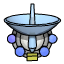
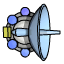
All turrets shooting

diff --git a/src/js/Game.js b/src/js/Game.js
@@ -1,13 +1,39 @@
-var map, road, trees, turrets, test, bmd, marker, currentTile, enemies, waveCreator, enemyWave, turretPosition, mouseDownCount;
+var map, road, trees, turrets, test, bmd, marker, currentTile, enemies, waveCreator, enemyWave, turretPosition, mouseDownCount, bullets;
+var fireRate0 = 300;
+var nextFire0 = 0;
+var fireRate1 = 300;
+var nextFire1 = 0;
+
+var fireRate2 = 300;
+var nextFire2 = 0;
+var fireRate3 = 300;
+var nextFire3 = 0;
+var fireRate4 = 300;
+var nextFire4 = 0;
+var fireRate5 = 300;
+var nextFire5 = 0;
+var fireRate6 = 300;
+var nextFire6 = 0;
+var fireRate7 = 300;
+var nextFire7 = 0;
+var fireRate8 = 300;
+var nextFire8 = 0;
+var fireRate9 = 300;
+var nextFire9 = 0;
+
+
 
 PhaserGame.Game = function (game) {
+  // this.weapons = [];
 }
 
 PhaserGame.Game.prototype = {
 
   create: function () {
+    ///////////////////////////////////////
+    //      Map and Layers Creation      //
+    ///////////////////////////////////////
 
-    //***** Map and Layers Creation *****//
     this.map = this.add.tilemap('map');
 
       //First param :name of tileset from tiled; second: game.load.image
@@ -17,14 +43,17 @@ PhaserGame.Game.prototype = {
     this.road = this.map.createLayer('Road');
     this.grass = this.map.createLayer('Grass');
     this.trees = this.map.createLayer('Tree bases');
-    this.turrets = this.map.createLayer('Turrets');
+    // this.turrets = this.map.createLayer('Turrets');
 
-    //***** Enemy sprite and travel path information *****//
+    ////////////////////////////////////////////////////////
+    //      Enemy sprite and travel path information      //
+    ////////////////////////////////////////////////////////
+
     this.enemies = game.add.group();
     this.enemies.enableBody = true;
-    this.enemies.enableBodyType = Phaser.Physics.ARCADE;
+    this.enemies.physicsBodyType = Phaser.Physics.ARCADE;
 
-    this.enemyWave = ['tank01', 'tank01', 'tank01', 'tank04', 'tank04', 'tank04', 'tank07', 'tank07', 'tank07'];
+    this.enemyWave = ['tank1', 'tank2', 'tank3', 'tank4', 'tank5', 'tank6', 'tank7', 'tank8', 'tank9'];
 
 
     for (var i = 0; i < this.enemyWave.length; i++) {
@@ -32,9 +61,25 @@ PhaserGame.Game.prototype = {
       this.enemyWave[i].anchor.set(0.5);
     }
 
+    ///////////////////////
+    //      Bullets      //
+    ///////////////////////
+
+    this.bullets = game.add.group();
+
+    this.bullets.enableBody = true;
+    this.bullets.physicsBodyType = Phaser.Physics.ARCADE;
+    this.bullets.createMultiple(500, 'bullet');
+    this.bullets.setAll('checkWorldBounds', true);
+    this.bullets.setAll('outOfBoundsKill', true);
+
+    /////////////////////
+    //     Turrets     //
+    /////////////////////
+
     this.guns = game.add.group();
 
-    this.turretPosition = ['turret1', 'turret1', 'turret1', 'turret1', 'turret1', 'turret1', 'turret1', 'turret1', 'turret1', 'turret1',]
+    this.turretPosition = ['turret1', 'turret2', 'turret3', 'turret4', 'turret5', 'turret6', 'turret7', 'turret8', 'turret7', 'turret6',]
 
     this.turretSpots = {
       'x' : [352, 800, 256, 448, 96, 320, 128, 354, 832, 864],
@@ -46,25 +91,22 @@ PhaserGame.Game.prototype = {
       this.turretPosition[i].anchor.set(0.5);
     }
 
+    ///////////////////////////////////////////////
+    //      Add Bit Mad Data and Last Layer      //
+    ///////////////////////////////////////////////
+
     this.bmd = this.add.bitmapData(game.width, game.height);
     this.bmd.addToWorld();
     this.plot();
 
     this.bridges = this.map.createLayer('Tree Tops and Bridges');
 
-    //Mouse marker
-    marker = game.add.graphics();
-    marker.lineStyle(2, 0x000000, 1);
-    marker.drawRect(-32, -32, 64, 64);
-    mouseDownCount = 0;
-
-    // currentTile = this.map.getTile(30, 0, 'Turrets');
-
   },
 
   plot: function () {
-
-    //***** Path plot info for the enemy sprites *****//
+    ////////////////////////////////////////////////////
+    //      Path plot info for the enemy sprites      //
+    ////////////////////////////////////////////////////
 
     this.path = [];
     var ix = 0;
@@ -102,8 +144,10 @@ PhaserGame.Game.prototype = {
   },
 
   update: function (){
+    //////////////////////////////////////////////
+    //     Places enemy tanks into the wave     //
+    //////////////////////////////////////////////
 
-    //This places enemy tanks into the wave
     for (var i = 0; i < this.enemyWave.length; i++) {
       var offset = this.path[this.pi + ((this.enemyWave.length - 1) * 40 - i * 40)];
       this.enemyWave[i].x = offset.x;
@@ -112,43 +156,121 @@ PhaserGame.Game.prototype = {
     };
 
     this.pi++;
-
     if (this.pi >= this.path.length) {
       this.pi = 0;
     }
-
-    //Marks the current location of the mouse
-    marker.x = this.turrets.getTileX(game.input.activePointer.worldX) * 32;
-    marker.y = this.turrets.getTileY(game.input.activePointer.worldY) * 32;
-
-
-    // if (game.input.mousePointer.isDown) {
-    //   // var 'turret' + mouseDownCount;
-    //   // this.('turret' + mouseDownCount) = this.guns.create(marker.x, marker.y, 'turret1');
-    //   // this.('turret' + mouseDownCount).anchor.set(0.5);
-    //   // this.('turret' + mouseDownCount) = game.physics.arcade.angleBetween(this.('turret' + mouseDownCount), this.enemyWave[1]);
-    //   // this.mouseDownCount++;
-    //   this.turretPosition = this.guns.create(marker.x, marker.y, 'turret1');
-    //   this.turretPosition.anchor.set(0.5);
-    //   // this.turretPosition.rotation = game.physics.arcade.angleBetween(this.turretPosition, this.enemyWave[1]);
-
-    // }
-
-    // // if (game.input.mousePointer.isDown) {
-    // //   if (game.input.keyboard.isDown(Phaser.Keyboard.SHIFT)) {
-    // //     currentTile = this.map.getTile(this.turrets.getTileX(marker.x), this.turrets.getTileY(marker.y), 'Turrets');
-    // //   } else {
-    // //     if (this.map.getTile(this.turrets.getTileX(marker.x), this.turrets.getTileY(marker.y)) !== currentTile) {
-    // //       this.map.putTile(currentTile, this.turrets.getTileX(marker.x), this.turrets.getTileY(marker.y), 'Turrets');
-    // //     }
-    // //   }
-    // // }
     for(var i = 0; i < this.turretPosition.length; i++) {
       this.turretPosition[i].rotation = game.physics.arcade.angleBetween(this.turretPosition[i], this.enemyWave[1]);
     }
 
-  }
+    this.fire0();
+    this.fire1();
+    this.fire2();
+    this.fire3();
+    this.fire4();
+    this.fire5();
+    this.fire6();
+    this.fire7();
+    this.fire8();
+    this.fire9();
 
+  },
+
+  fire0: function () {
+    if (game.time.now > nextFire0 && this.bullets.countDead() > 0) {
+      nextFire0 = game.time.now + fireRate0;
+      var bullet = this.bullets.getFirstDead();
+      bullet.reset(this.turretPosition[0].x + 16, this.turretPosition[0].y + 16);
+      bullet.rotation = game.physics.arcade.angleBetween(this.turretPosition[0], this.enemyWave[1])
+      game.physics.arcade.moveToObject(bullet, this.enemyWave[1], 300);
+    }
+  },
+  fire1: function () {
+    if (game.time.now > nextFire1 && this.bullets.countDead() > 0) {
+      nextFire1 = game.time.now + fireRate1;
+      var bullet = this.bullets.getFirstDead();
+      bullet.reset(this.turretPosition[1].x + 16, this.turretPosition[1].y + 16);
+      bullet.rotation = game.physics.arcade.angleBetween(this.turretPosition[1], this.enemyWave[0])
+      game.physics.arcade.moveToObject(bullet, this.enemyWave[0], 300);
+    }
+  },
+  fire2: function () {
+    if (game.time.now > nextFire2 && this.bullets.countDead() > 0) {
+      nextFire2 = game.time.now + fireRate2;
+      var bullet = this.bullets.getFirstDead();
+      bullet.reset(this.turretPosition[2].x + 16, this.turretPosition[2].y + 16);
+      bullet.rotation = game.physics.arcade.angleBetween(this.turretPosition[2], this.enemyWave[0])
+      game.physics.arcade.moveToObject(bullet, this.enemyWave[0], 300);
+    }
+  },
+  fire3: function () {
+    if (game.time.now > nextFire3 && this.bullets.countDead() > 0) {
+      nextFire3 = game.time.now + fireRate3;
+      var bullet = this.bullets.getFirstDead();
+      bullet.reset(this.turretPosition[3].x + 16, this.turretPosition[3].y + 16);
+      bullet.rotation = game.physics.arcade.angleBetween(this.turretPosition[3], this.enemyWave[0])
+      game.physics.arcade.moveToObject(bullet, this.enemyWave[0], 300);
+    }
+  },
+  fire4: function () {
+    if (game.time.now > nextFire4 && this.bullets.countDead() > 0) {
+      nextFire4 = game.time.now + fireRate4;
+      var bullet = this.bullets.getFirstDead();
+      bullet.reset(this.turretPosition[4].x + 16, this.turretPosition[4].y + 16);
+      bullet.rotation = game.physics.arcade.angleBetween(this.turretPosition[4], this.enemyWave[0])
+      game.physics.arcade.moveToObject(bullet, this.enemyWave[0], 300);
+    }
+  },
+  fire5: function () {
+    if (game.time.now > nextFire5 && this.bullets.countDead() > 0) {
+      nextFire5 = game.time.now + fireRate5;
+      var bullet = this.bullets.getFirstDead();
+      bullet.reset(this.turretPosition[5].x + 16, this.turretPosition[5].y + 16);
+      bullet.rotation = game.physics.arcade.angleBetween(this.turretPosition[5], this.enemyWave[0])
+      game.physics.arcade.moveToObject(bullet, this.enemyWave[0], 300);
+    }
+  },
+  fire6: function () {
+    if (game.time.now > nextFire6 && this.bullets.countDead() > 0) {
+      nextFire6 = game.time.now + fireRate6;
+      var bullet = this.bullets.getFirstDead();
+      bullet.reset(this.turretPosition[6].x + 16, this.turretPosition[6].y + 16);
+      bullet.rotation = game.physics.arcade.angleBetween(this.turretPosition[6], this.enemyWave[0])
+      game.physics.arcade.moveToObject(bullet, this.enemyWave[0], 300);
+    }
+  },
+  fire7: function () {
+    if (game.time.now > nextFire7 && this.bullets.countDead() > 0) {
+      nextFire7 = game.time.now + fireRate7;
+      var bullet = this.bullets.getFirstDead();
+      bullet.reset(this.turretPosition[7].x + 16, this.turretPosition[7].y + 16);
+      bullet.rotation = game.physics.arcade.angleBetween(this.turretPosition[7], this.enemyWave[0])
+      game.physics.arcade.moveToObject(bullet, this.enemyWave[0], 300);
+    }
+  },
+  fire8: function () {
+    if (game.time.now > nextFire8 && this.bullets.countDead() > 0) {
+      nextFire8 = game.time.now + fireRate8;
+      var bullet = this.bullets.getFirstDead();
+      bullet.reset(this.turretPosition[8].x + 16, this.turretPosition[8].y + 16);
+      bullet.rotation = game.physics.arcade.angleBetween(this.turretPosition[8], this.enemyWave[0])
+      game.physics.arcade.moveToObject(bullet, this.enemyWave[0], 300);
+    }
+  },
+  fire9: function () {
+    if (game.time.now > nextFire9 && this.bullets.countDead() > 0) {
+      nextFire9 = game.time.now + fireRate9;
+      var bullet = this.bullets.getFirstDead();
+      bullet.reset(this.turretPosition[9].x + 16, this.turretPosition[9].y + 16);
+      bullet.rotation = game.physics.arcade.angleBetween(this.turretPosition[9], this.enemyWave[0])
+      game.physics.arcade.moveToObject(bullet, this.enemyWave[0], 300);
+    }
+  },
+  render: function () {
+
+    // game.debug.text('Active Bullets: ' + this.bullets.countLiving() + ' / ' + this.bullets.countDead() + ' / ' + this.bullets.total, 32, 32);
+    // game.debug.text(game.time.now + ' / ' + nextFire, 32, 64)
+  }
 
 };
 

diff --git a/src/js/Preloader.js b/src/js/Preloader.js
@@ -2,6 +2,8 @@ PhaserGame.Preloader = function (game) {
 
 };
 
+
+
 PhaserGame.Preloader.prototype = {
   preload: function () {
     //Load the elements from the Boot.js for the splash screen
@@ -13,40 +15,16 @@ PhaserGame.Preloader.prototype = {
     this.load.tilemap('map', 'assets/river-defense.json', null, Phaser.Tilemap.TILED_JSON);
     this.load.image('terrain', 'assets/terrain_atlas.png');
     this.load.image('turrets', 'assets/turrets32.png');
-    this.load.image('tank01', 'assets/enemy01.png');
-    this.load.image('tank02', 'assets/enemy02.png');
-    this.load.image('tank03', 'assets/enemy03.png');
-    this.load.image('tank04', 'assets/enemy04.png');
-    this.load.image('tank05', 'assets/enemy05.png');
-    this.load.image('tank06', 'assets/enemy06.png');
-    this.load.image('tank07', 'assets/enemy07.png');
-    this.load.image('tank08', 'assets/enemy08.png');
-    this.load.image('tank09', 'assets/enemy09.png');
-    this.load.image('tank10', 'assets/enemy10.png');
-    this.load.image('tank11', 'assets/enemy11.png');
-    this.load.image('tank12', 'assets/enemy12.png');
-    this.load.image('tank13', 'assets/enemy13.png');
-    this.load.image('tank14', 'assets/enemy14.png');
-    this.load.image('tank15', 'assets/enemy15.png');
-    this.load.image('tank16', 'assets/enemy16.png');
-    this.load.image('tank17', 'assets/enemy17.png');
-    this.load.image('tank18', 'assets/enemy18.png');
-    this.load.image('tank19', 'assets/enemy19.png');
-    this.load.image('tank20', 'assets/enemy20.png');
-    this.load.image('tank21', 'assets/enemy21.png');
-    this.load.image('tank22', 'assets/enemy22.png');
-    this.load.image('tank23', 'assets/enemy23.png');
-    this.load.image('tank24', 'assets/enemy24.png');
-    this.load.image('tank25', 'assets/enemy25.png');
-    this.load.image('tank26', 'assets/enemy26.png');
-    this.load.image('tank27', 'assets/enemy27.png');
-    this.load.image('tank28', 'assets/enemy28.png');
-    this.load.image('tank29', 'assets/enemy29.png');
-    this.load.image('tank30', 'assets/enemy30.png');
-    this.load.image('tank31', 'assets/enemy31.png');
 
+    for (var i = 1; i < 32; i++) {
+      this.load.image('tank' + i, 'assets/enemy' + i + '.png');
+    };
 
-    this.load.image('turret1', 'assets/turret1.png');
+    for (var i = 1; i < 9; i++) {
+      this.load.image('turret' + i, 'assets/turret' + i + '.png')
+    }
+
+    this.load.image('bullet', 'assets/bullet_right.png');
 
     var welcome = game.add.text(100, 100, 'coming...', {font: '30px Courier', fill: '#eeeeee'});
 

diff --git a/src/js/Boot.js b/src/js/Boot.js
@@ -1,6 +1,9 @@
-var PhaserGame = {};
-
 var game = new Phaser.Game(1024, 768, Phaser.AUTO, 'game');
+
+var PhaserGame = function (){
+  this.weapons = [];
+  this.currentWeapon = 0;
+};
 
 PhaserGame.Boot = function (game) {
 
